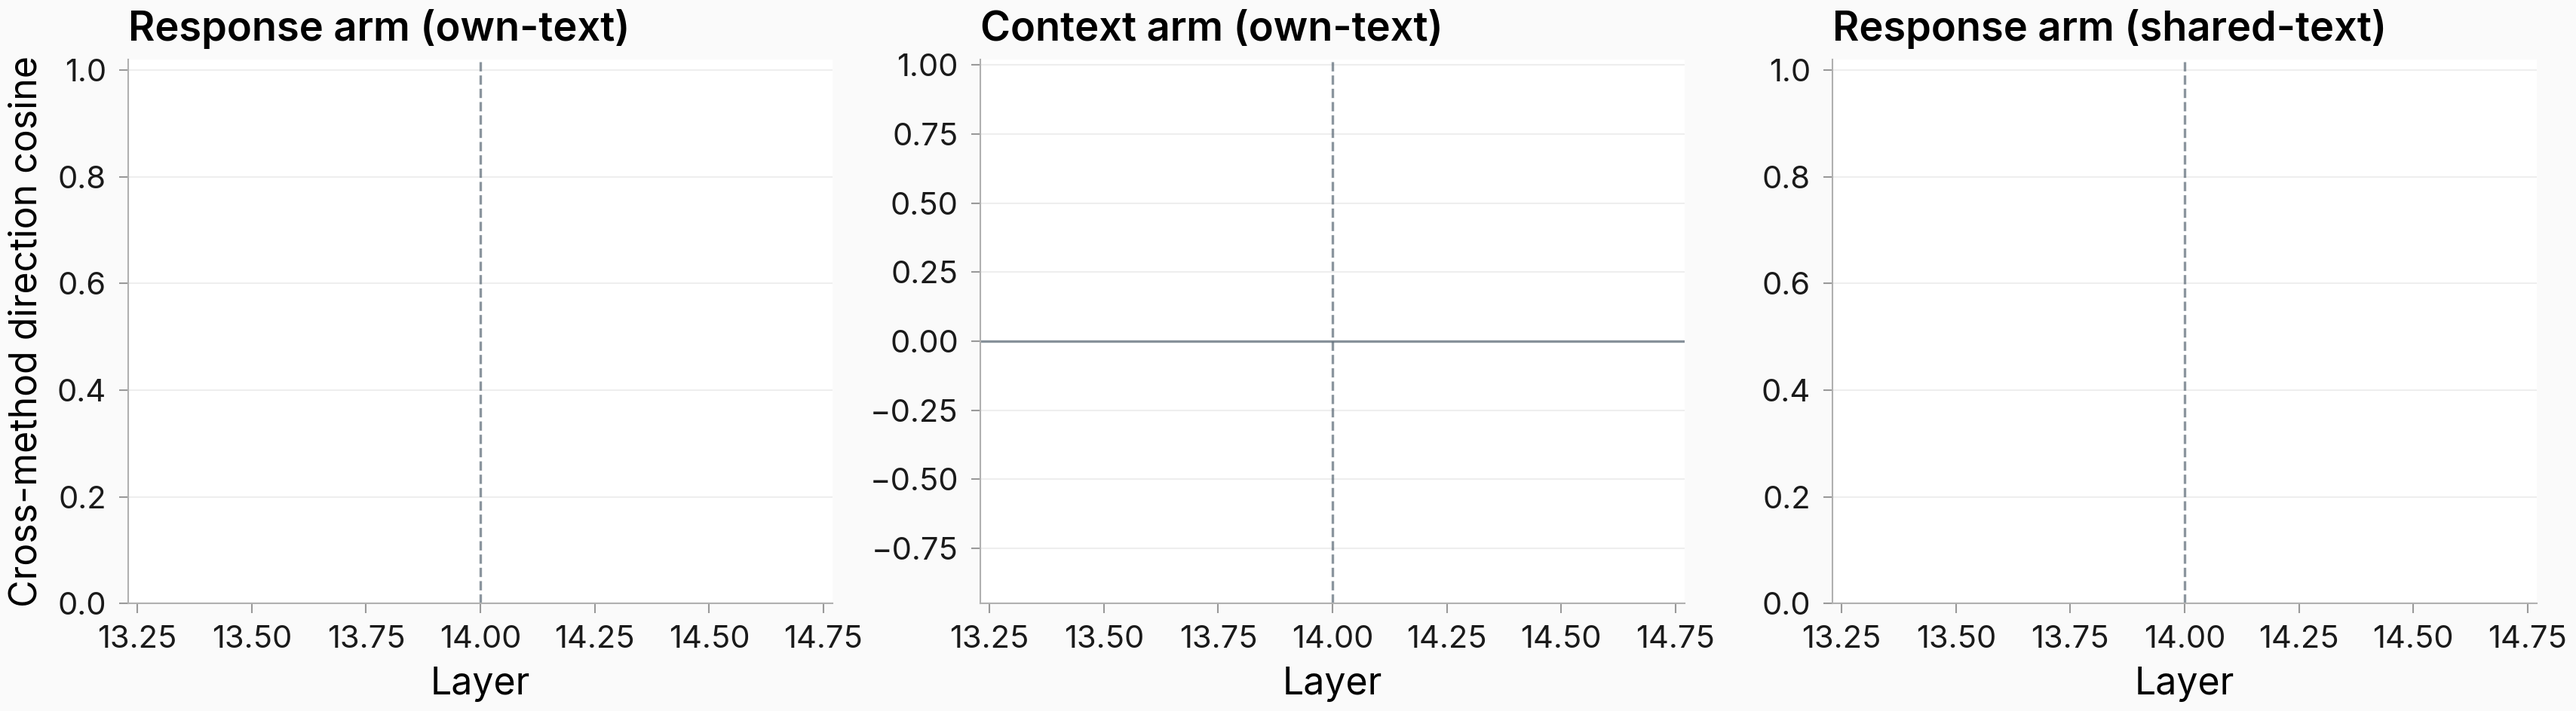
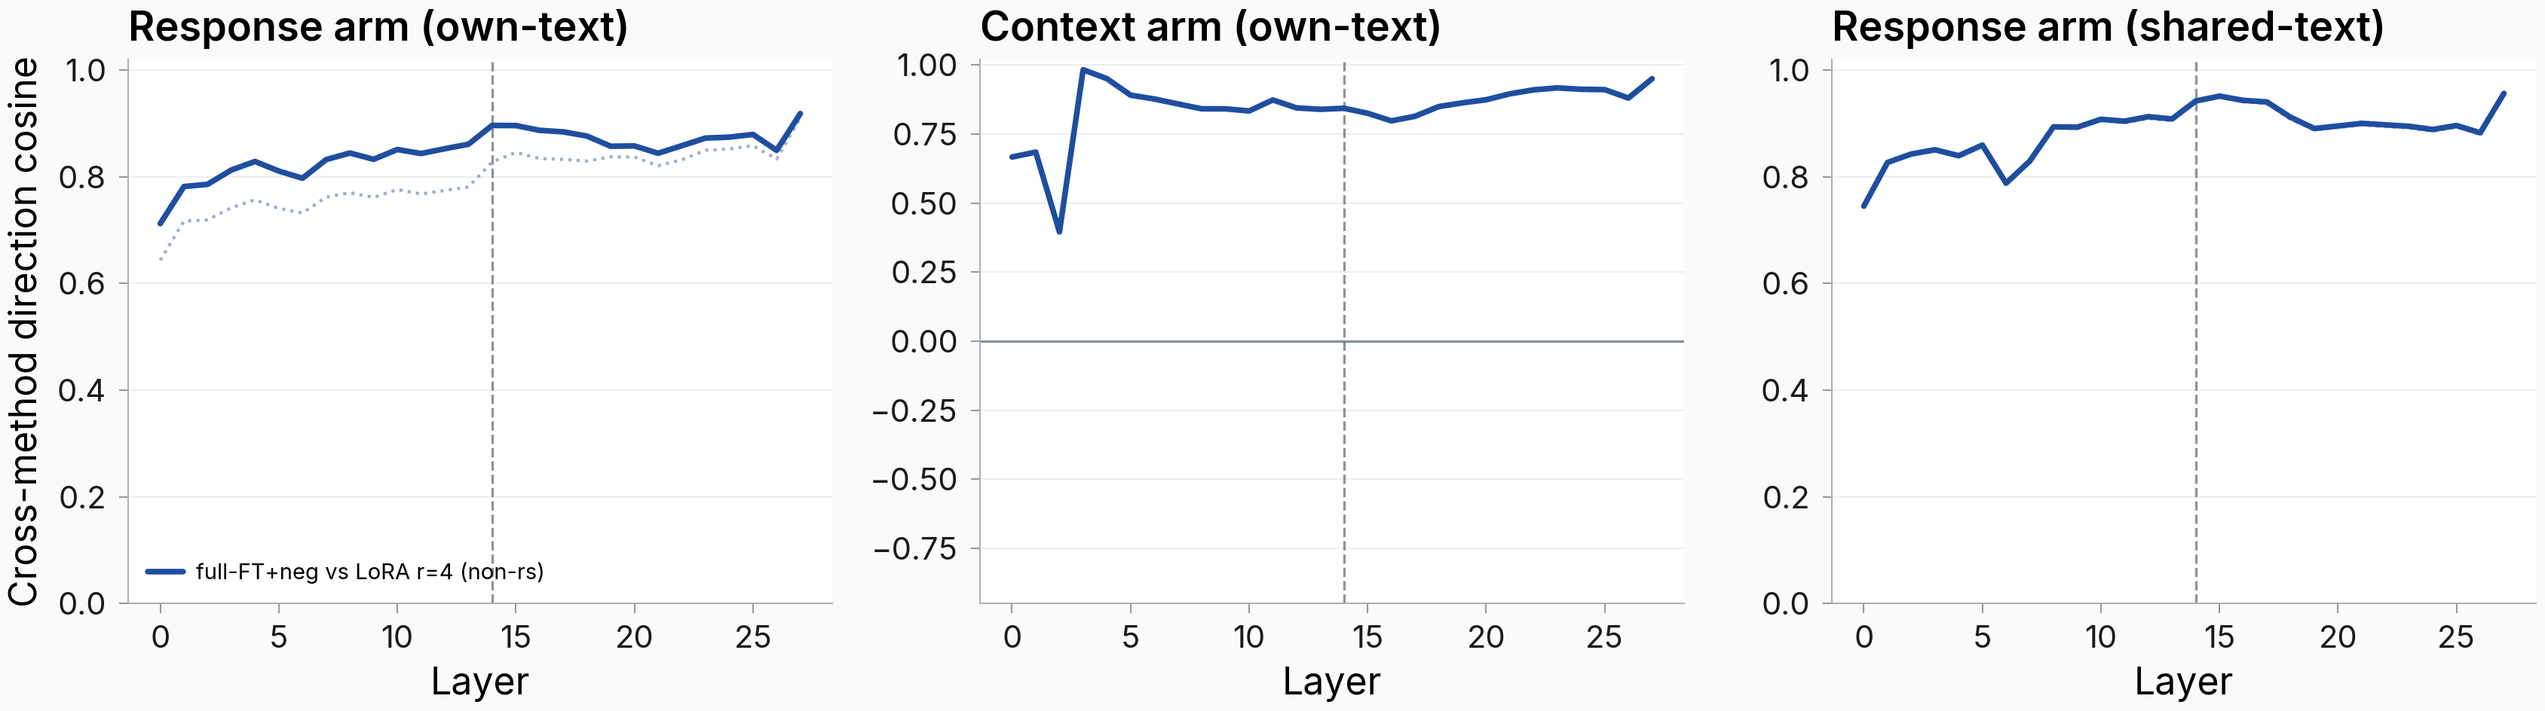
task #1112 rankem: figure renderer derives pairs from the payload; r4 profile re-rendered
make_figure hardcoded the three parent pair labels, so a --pairs subset run
rendered an EMPTY figure (axes only). Derive the rendered set from
payload['pairs'] with the hardcoded map as label/role sugar; re-render the r4
figure from the committed JSON (all 28 layers, three arms).

Generated with [Claude Code](https://claude.ai/code)
via [Happy](https://happy.engineering)

diff --git a/scripts/issue1112_cross_method_cosine.py b/scripts/issue1112_cross_method_cosine.py
@@ -596,7 +596,15 @@ def make_figure(payload: dict, fig_path: Path) -> None:
         "H1x_ftneg_vs_loraneg": ("primary", "full-FT+neg vs LoRA+neg"),
         "H1x_pos_ftpos_vs_lorapos": ("baseline", "full-FT+pos vs LoRA+pos"),
         "H1x_lrm_ftneg_vs_lora_lr5e6": ("control", "full-FT+neg vs LoRA+neg (lr-matched 5e-6)"),
+        "rankem_a1_ftneg_vs_lora_r1": ("baseline", "full-FT+neg vs LoRA r=1 (non-rs)"),
+        "rankem_a2_ftneg_vs_lora_r4": ("primary", "full-FT+neg vs LoRA r=4 (non-rs)"),
+        "rankem_b_misalignment_ft_vs_lora": ("control", "misalignment full-FT vs LoRA r32"),
     }
+    # Render whatever pairs the payload actually carries (a --pairs run writes a
+    # subset; hardcoded-only labels rendered an EMPTY figure for rankem runs).
+    role = {k: v for k, v in role.items() if k in payload["pairs"]}
+    for k in payload["pairs"]:
+        role.setdefault(k, ("primary", k))
     panels = [
         ("response_own", "Response arm (own-text)"),
         ("context_own", "Context arm (own-text)"),
